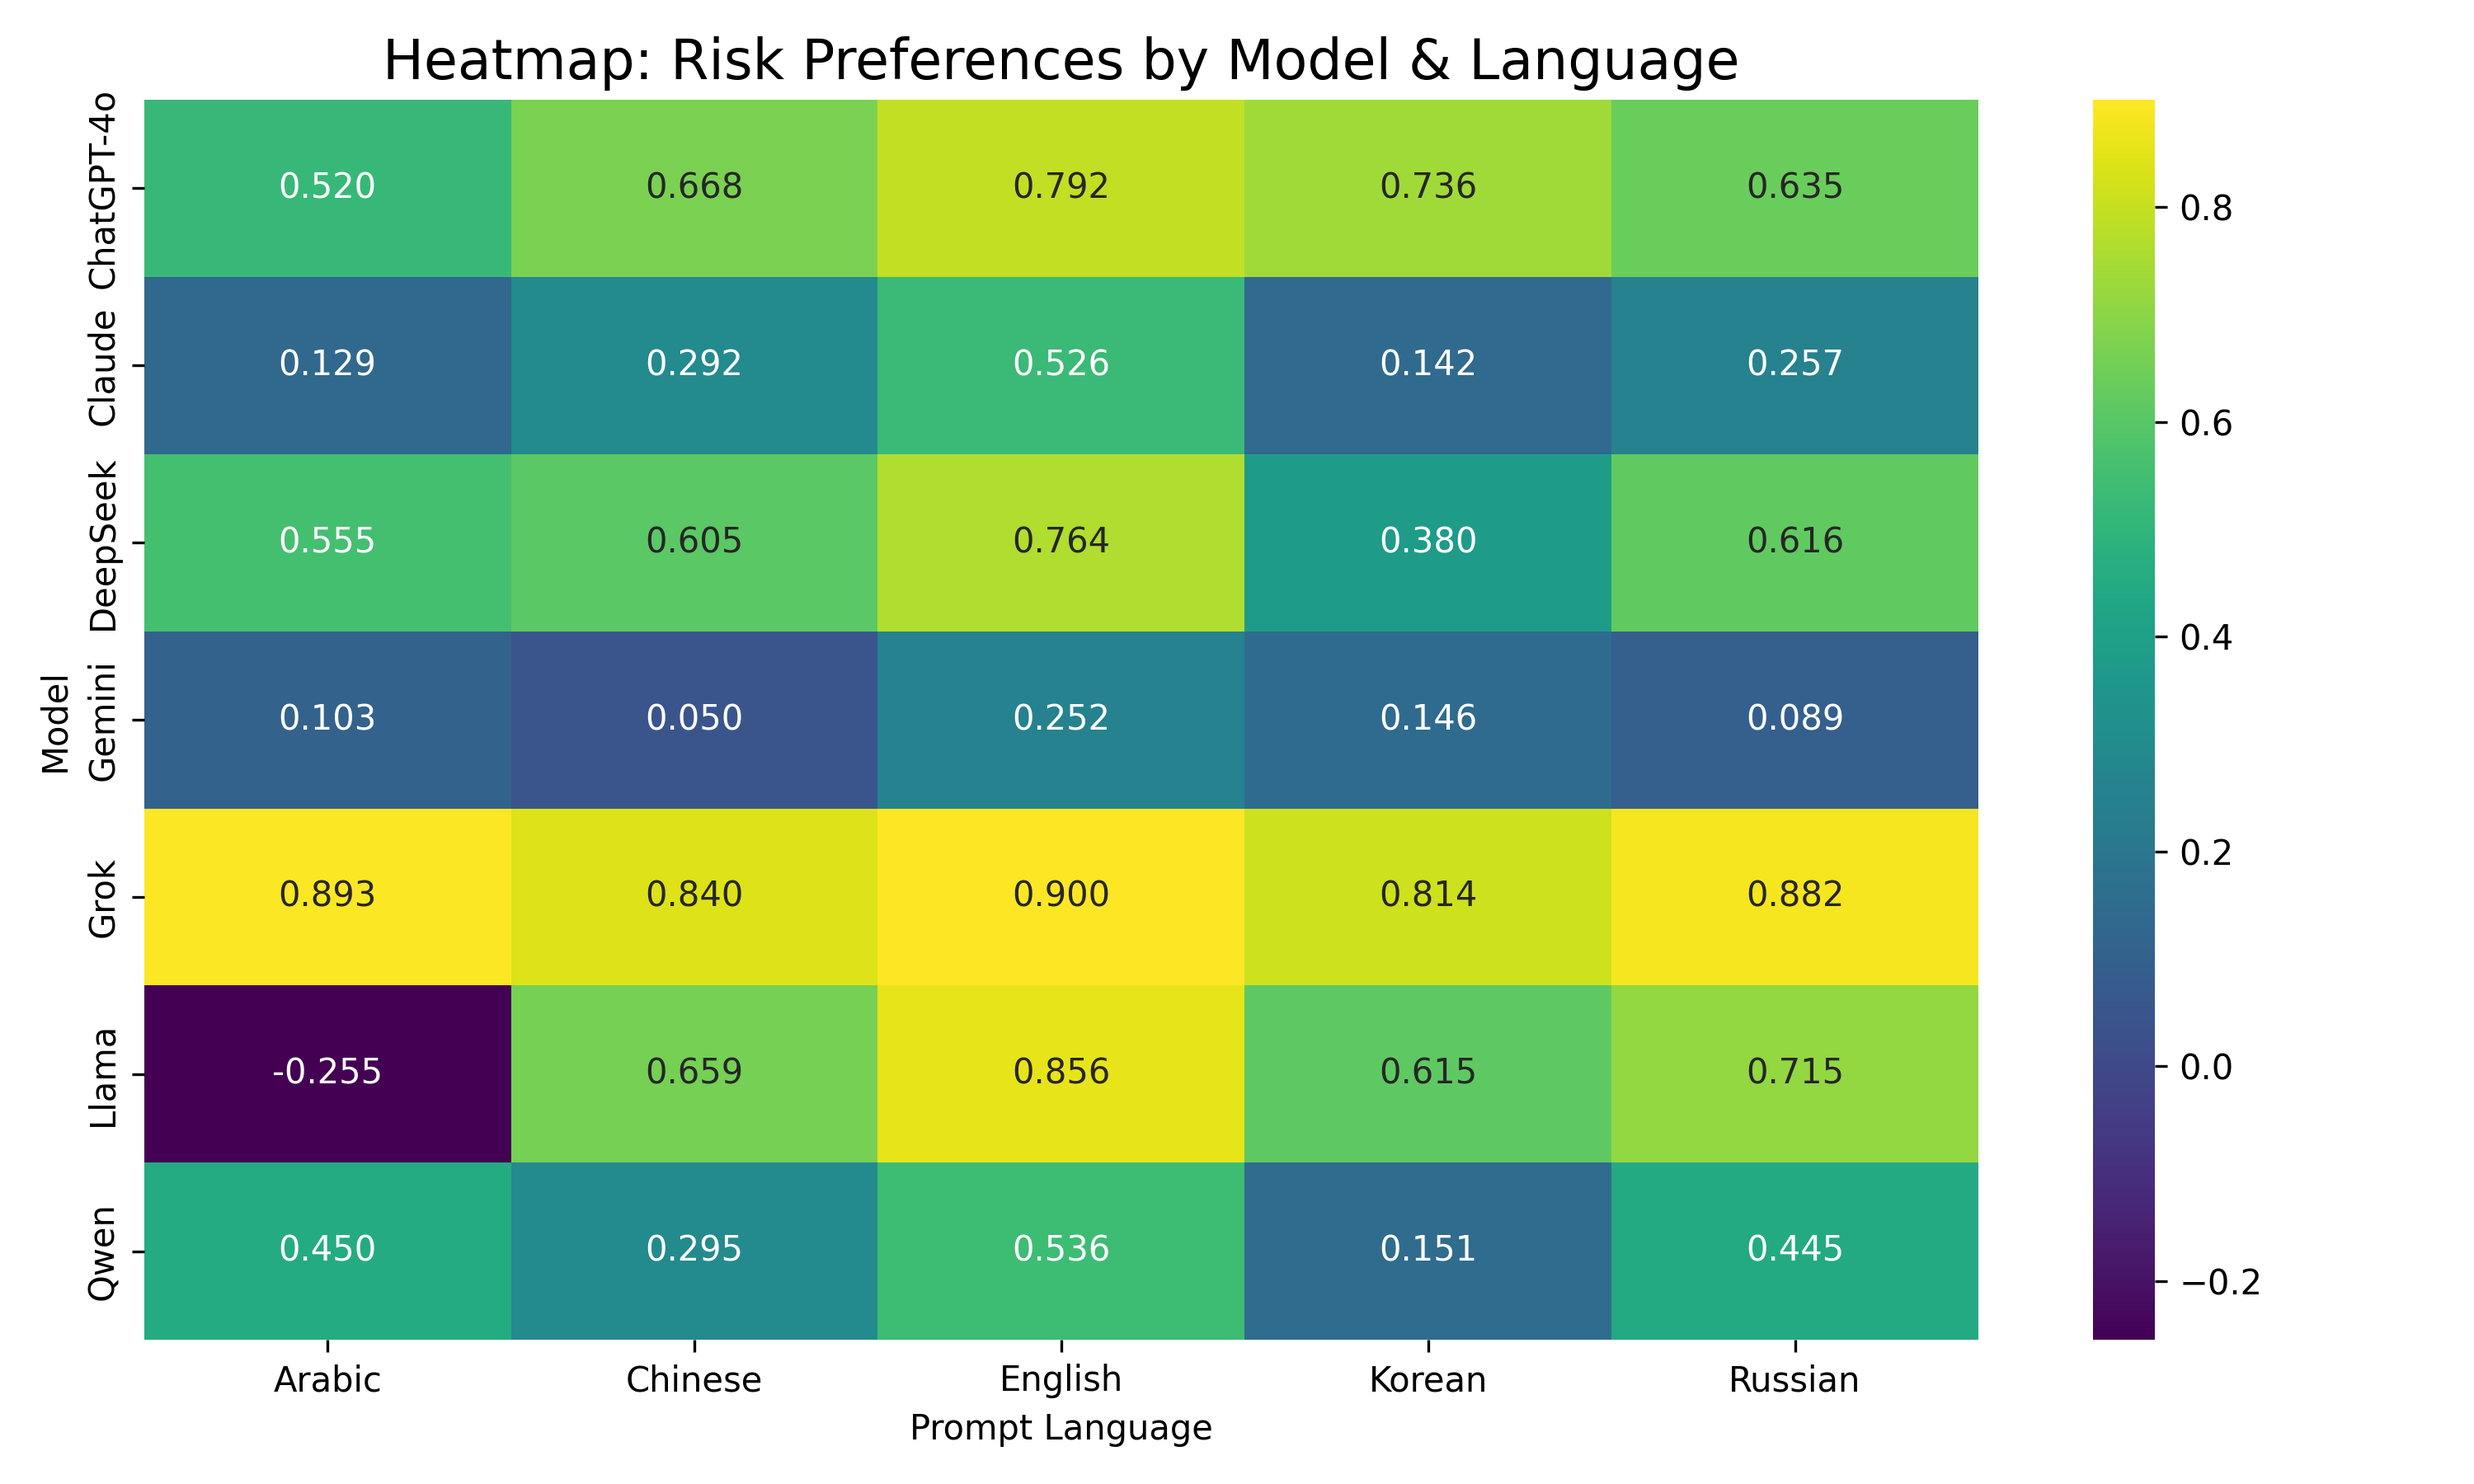
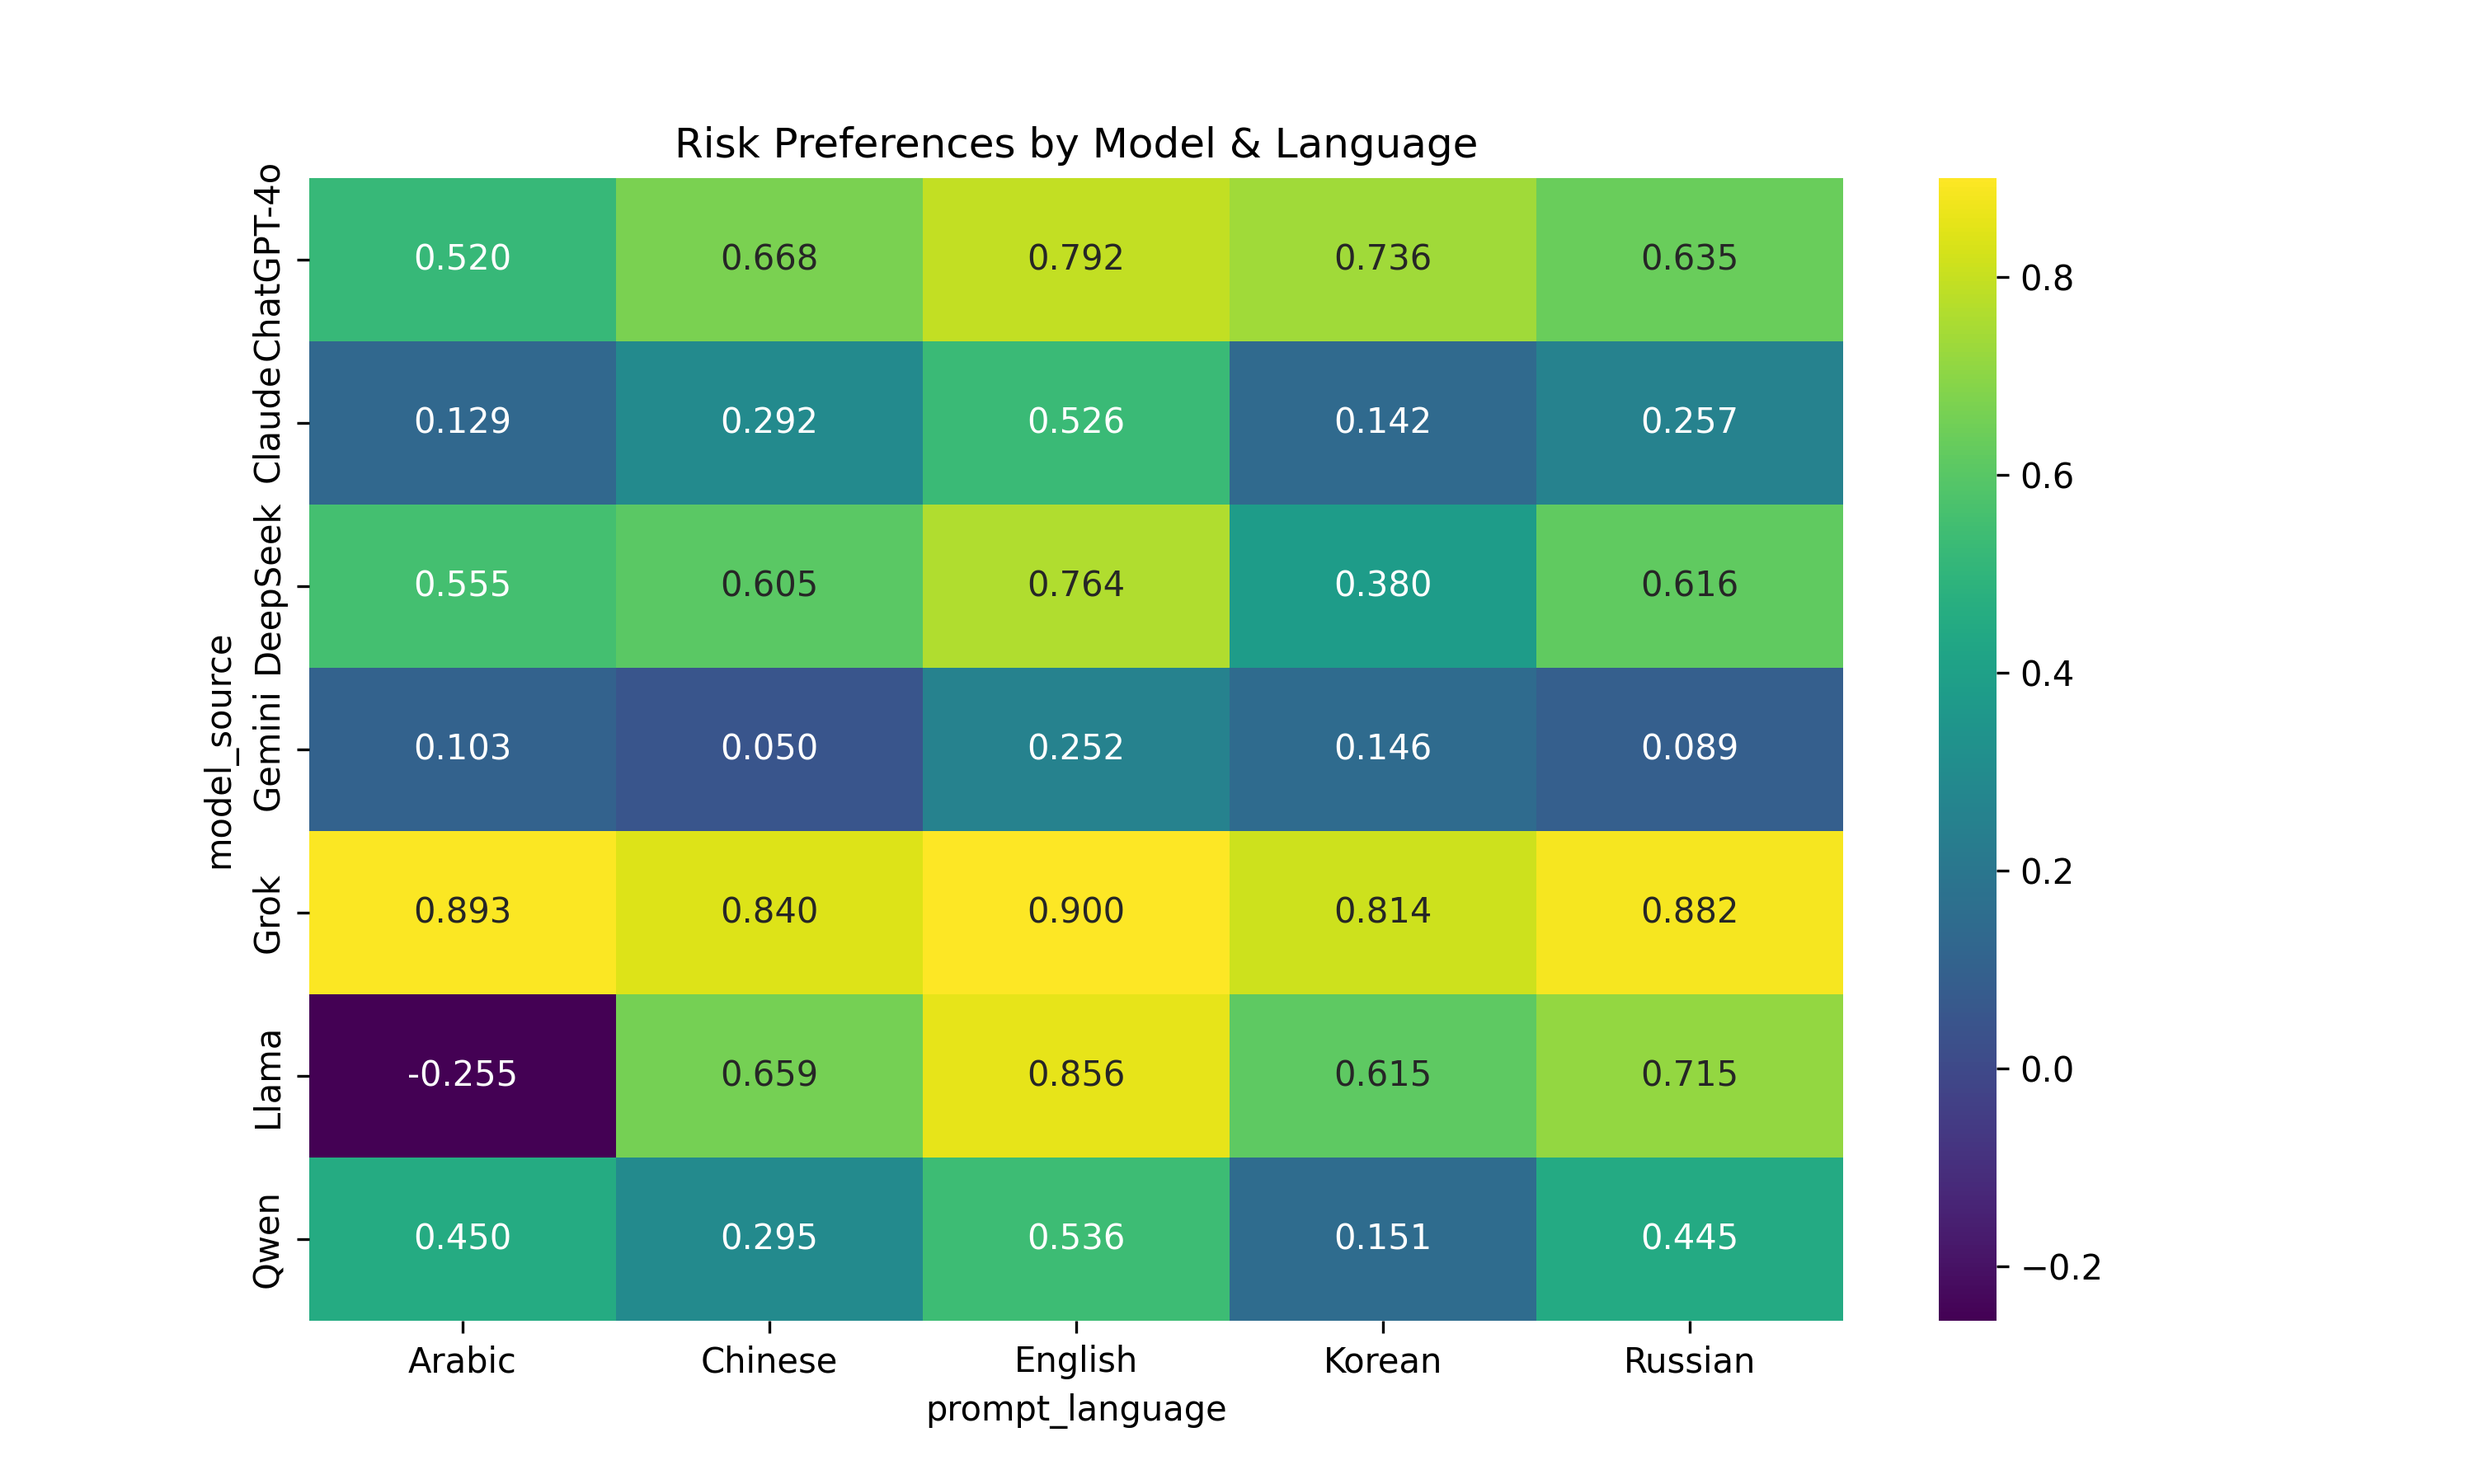
Update risk preference visualization script and regenerated heatmap

diff --git a/tests_visualizing/risk_preference_visualization.py b/tests_visualizing/risk_preference_visualization.py
@@ -1,52 +1,52 @@
+from google.cloud import bigquery
 import pandas as pd
 import seaborn as sns
 import matplotlib.pyplot as plt
 import os
 
-df = pd.read_csv("artifacts/risk_preference_for_analysis.csv")
+client = bigquery.Client()
 
-round_cols = [col for col in df.columns if col.startswith("round_")]
+query = """
+SELECT
+    id,
+    model_source,
+    prompt_language,
+    ROUND(AVG(
+        round_1 + round_2 + round_3 + round_4 + round_5 +
+        round_6 + round_7 + round_8 + round_9 + round_10 +
+        round_11 + round_12 + round_13 + round_14 + round_15 +
+        round_16 + round_17 + round_18 + round_19 + round_20 +
+        round_21 + round_22 + round_23 + round_24 + round_25 +
+        round_26 + round_27 + round_28 + round_29 + round_30 +
+        round_31 + round_32 + round_33 + round_34 + round_35 +
+        round_36 + round_37 + round_38 + round_39 + round_40 +
+        round_41 + round_42 + round_43 + round_44 + round_45 +
+        round_46 + round_47 + round_48 + round_49 + round_50
+    ) / 50, 4) AS risk_score
+FROM
+    `scammeruniversity.model_comparison.Combined_table_for_analysis`
+WHERE
+    id LIKE 'R_%'
+GROUP BY
+    id, model_source, prompt_language
+ORDER BY
+    model_source, prompt_language;
+"""
 
-df["avg_risk_score"] = df[round_cols].mean(axis=1)
+df = client.query(query).to_dataframe()
 
-summary = df.groupby(["model_source", "prompt_language"])["avg_risk_score"].mean().reset_index()
-
-
-# Make A FacetGrid
-plt.figure(figsize=(12, 6))
-sns.barplot(
-    data=summary, 
-    x="model_source", 
-    y="avg_risk_score",
-    hue="prompt_language",
-    palette="viridis"
+pivot = df.pivot_table(
+    index="model_source",
+    columns="prompt_language",
+    values="risk_score"
 )
 
-plt.title("Risk Preference Across Models and Languages", fontsize=16)
-plt.ylabel("Average Risk Preference Score")
-plt.xlabel("Model")
-plt.xticks(rotation=45, ha="right")
-plt.tight_layout()
-
-
 os.makedirs("visualization", exist_ok=True)
-output_path1 = "visualization/risk_preference_by_model_language.png"
-plt.savefig(output_path1, dpi=300)
-plt.close()
-
-# Make A Heatmap
-heatmap_df = summary.pivot(index="model_source", columns="prompt_language", values="avg_risk_score")
 
 plt.figure(figsize=(10, 6))
-sns.heatmap(heatmap_df, annot=True, cmap="viridis", fmt=".3f")
-plt.title("Heatmap: Risk Preferences by Model & Language", fontsize=16)
-plt.xlabel("Prompt Language")
-plt.ylabel("Model")
-plt.tight_layout()
+sns.heatmap(pivot, annot=True, cmap="viridis", fmt=".3f")
+plt.title("Risk Preferences by Model & Language")
+plt.savefig("visualization/risk_preference_heatmap.png", dpi=300)
+plt.close()
 
-output_path2 = "visualization/risk_preference_heatmap.png"
-plt.savefig(output_path2, dpi=300)
-
-print("\n🎉 Visualization saved to:")
-print("-", output_path1)
-print("-", output_path2)
+print("Visualization saved to visualization/risk_preference_heatmap.png")
